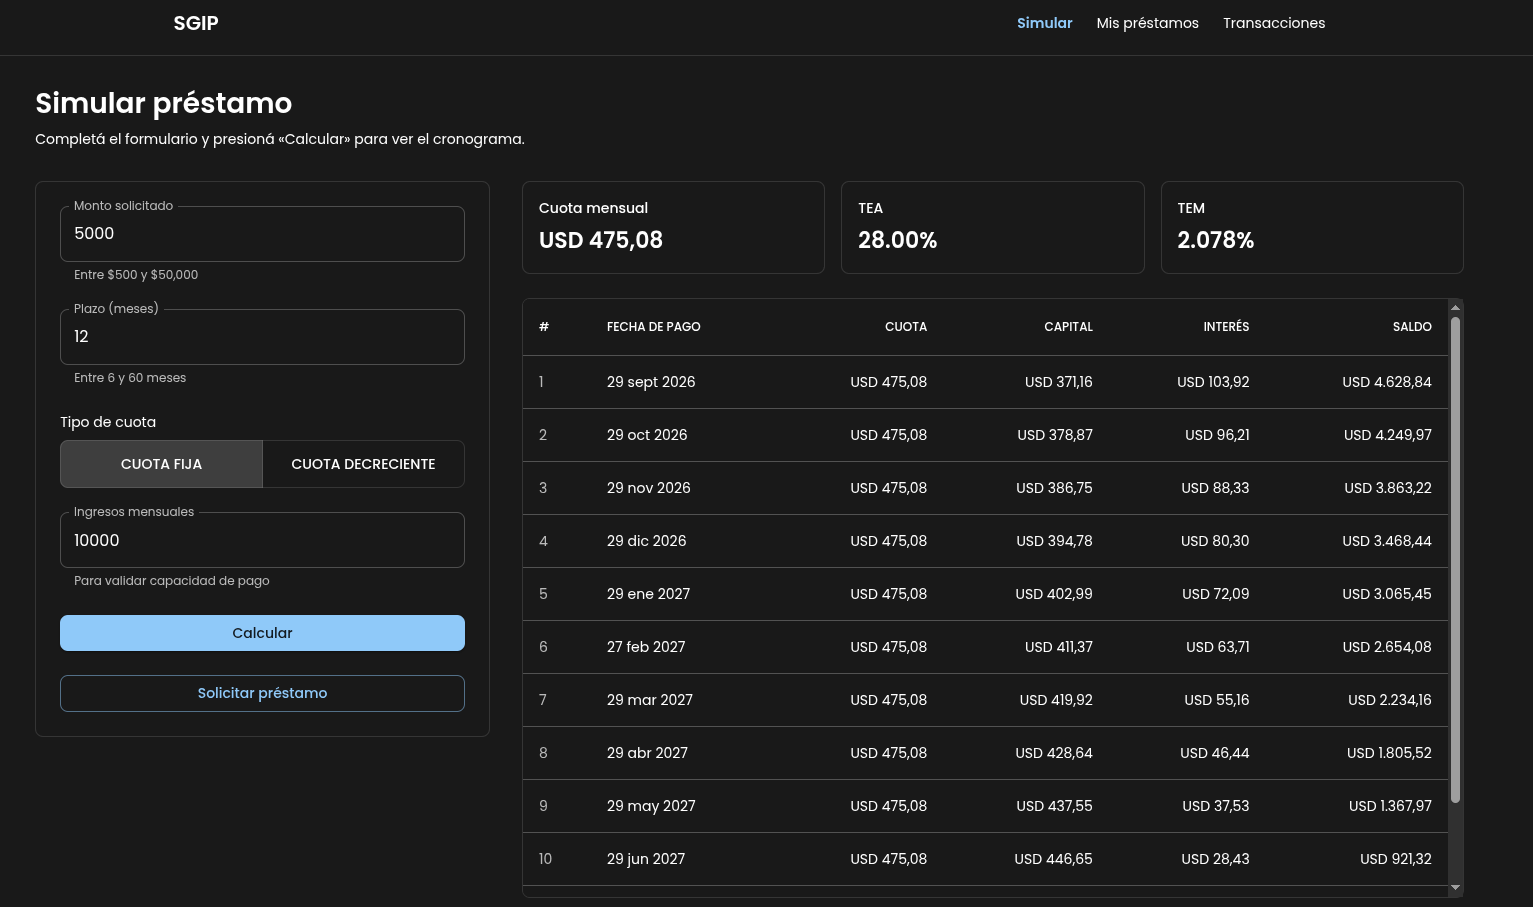
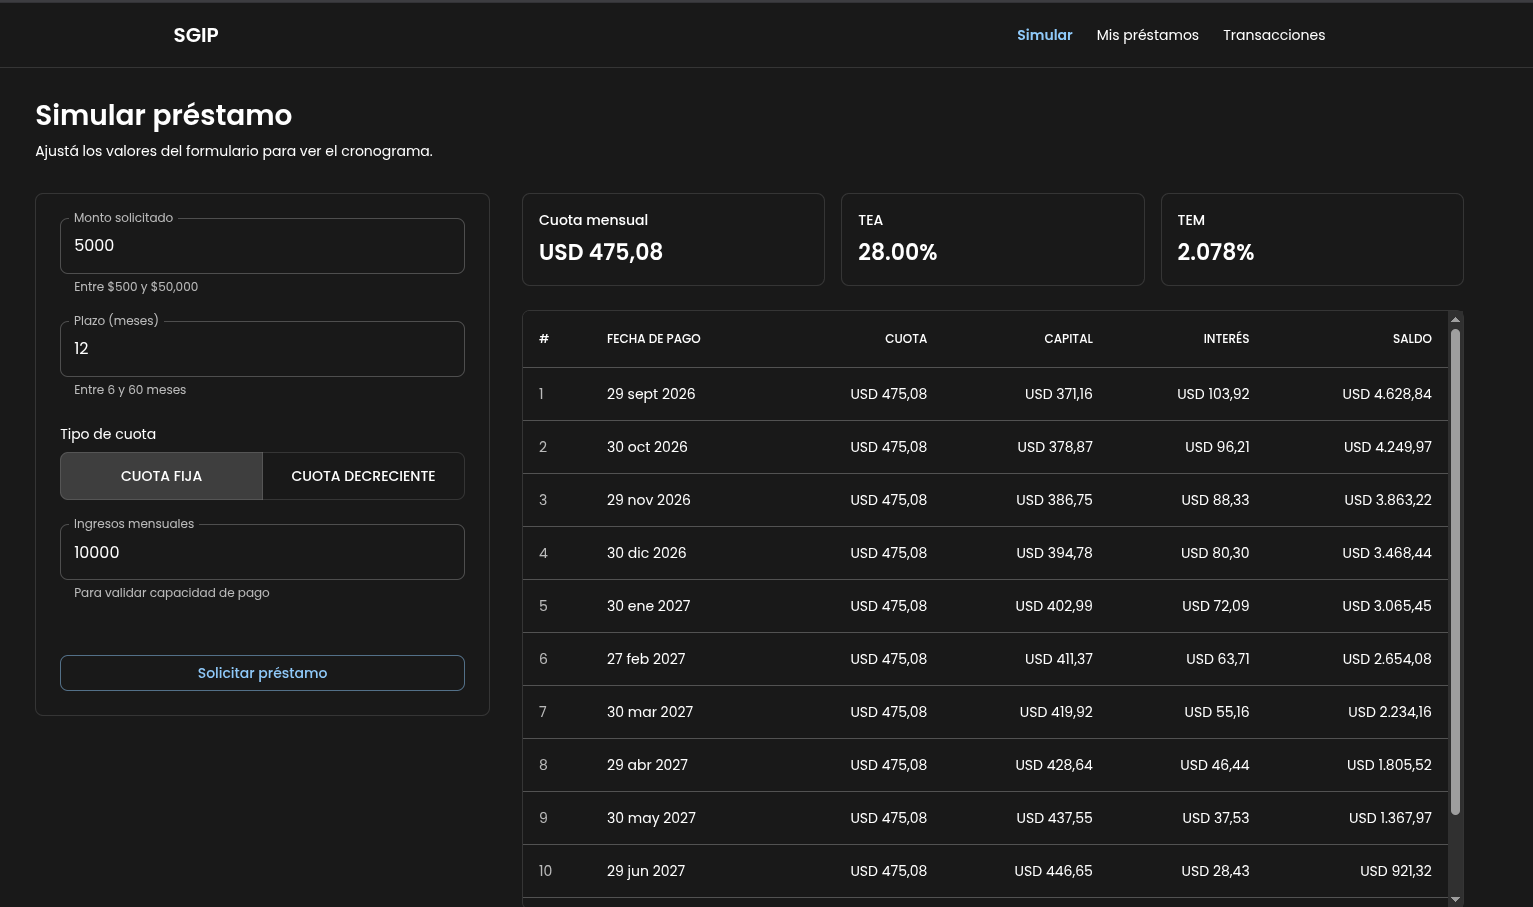
docs: se agrega url produccion y se agregan detalles

diff --git a/README.md b/README.md
@@ -28,7 +28,7 @@ WebApp para la gestión de préstamos e inversiones con simulación y solicitud 
 
 | Link | Url |
 |------|-----|
-| Frontend | |
+| Frontend | [https://sgip-front.vercel.app/](https://sgip-front.vercel.app/) |
 
 ## Links Locales (Desarrollo)
 
@@ -107,7 +107,7 @@ sgip-front/
 │   │   ├── loans/          # Simulador, listado y detalle de préstamos
 │   │   └── transactions/   # Listado y filtros de transacciones
 │   ├── components/        # Componentes de UI reutilizables (DataTable, StatusBadge, etc.)
-│   ├── hooks/              # Custom hooks (useServerAction, useLoanSimulation)
+│   ├── hooks/              # Custom hooks (useServerAction, useLoanSimulation, useDebouncedValue)
 │   ├── lib/                 # Constantes y utilidades sin estado (sesión hardcodeada, etc.)
 │   ├── services/            # Cliente del backend .NET (fetch tipado, server-only).
 │   │                         # Es la ÚNICA capa que conoce la URL del backend.
@@ -179,17 +179,6 @@ dos transacciones duplicadas.
 - Sin autenticación: `userId` hardcodeado en `lib/session.ts`.
 - Sin tests automatizados de frontend.
 - Los límites de negocio están duplicados en frontend y backend un cambio de negocio requiere tocar ambos lados.
-- El simulador solo recalcula al enviar el formulario (botón «Calcular»),
-  no en cada tecla — decisión deliberada para evitar peticiones
-  innecesarias mientras el usuario todavía está completando los campos.
-
-
-## Mejoras Futuras
-
-- Implementar autenticación y autorización de usuarios para garantizar que solo los usuarios autorizados puedan acceder a ciertas funcionalidades.
-- Agregar pruebas unitarias y de integración para garantizar la calidad y estabilidad del código.
-- Mejorar la experiencia de usuario mediante la implementación de animaciones y transiciones suaves en la interfaz.
-- Implementar una arquitectura modular y escalable que permita agregar nuevas funcionalidades de manera eficiente.
 
 ## Mejoras futuras
  
